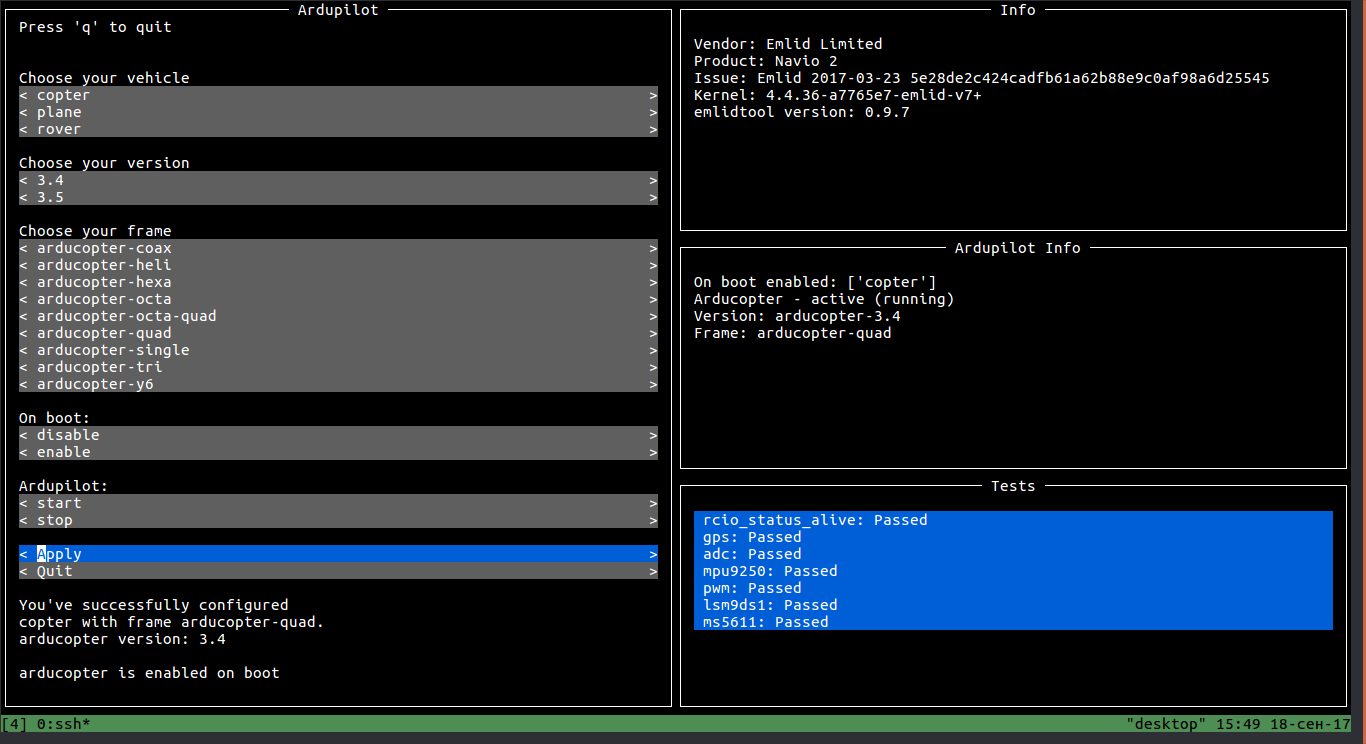
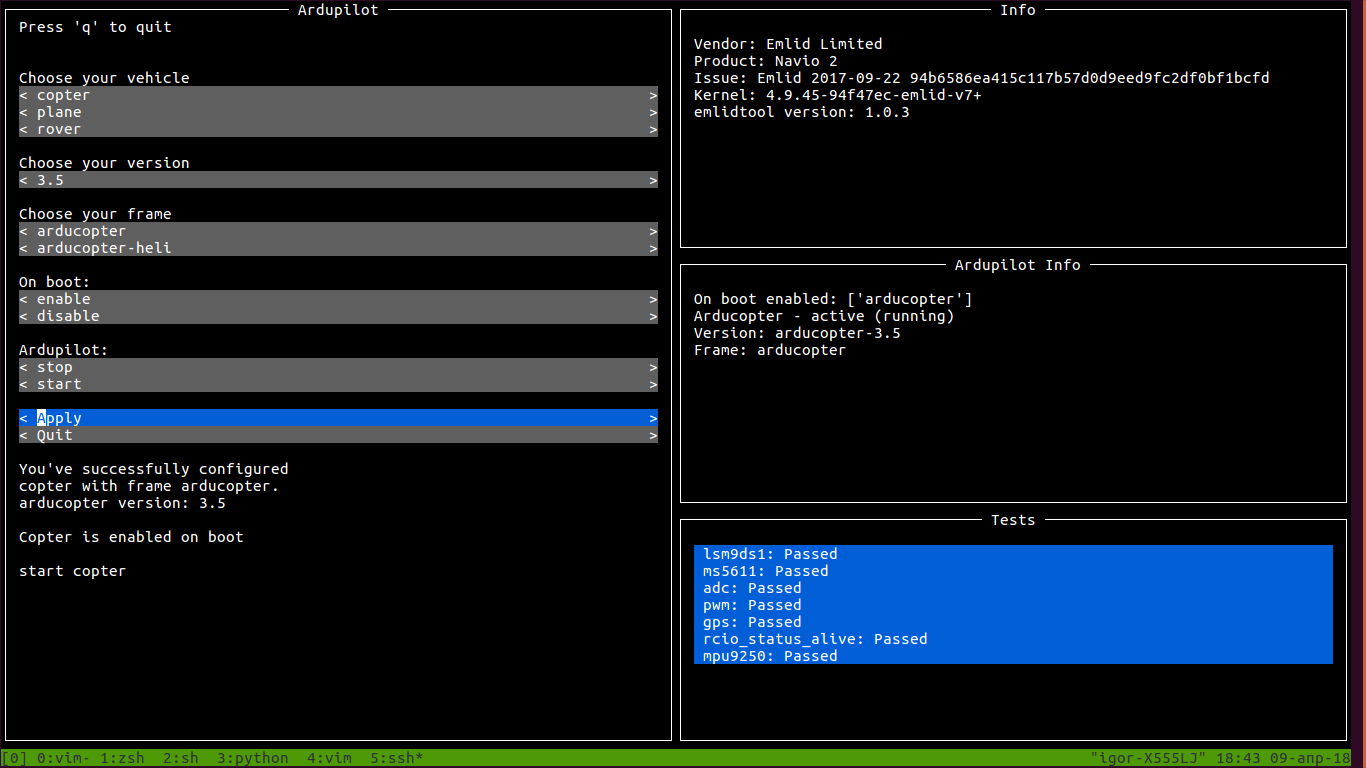
ardupilot: update emlidtool screen

Changed region(s): [[0.0, 0.0, 1.0, 1.0], [0.0, 0.8965, 0.2152, 0.9274]]

diff --git a/docs/common/ardupilot/installation-and-running.md b/docs/common/ardupilot/installation-and-running.md
@@ -75,7 +75,7 @@ Once the command is running, it will produce the output like this:
 At this point you should enter the right choices in the left menu corresponding to your vehicle and frame.
 Also, you need to decide whether you want to get ardupilot enabled on boot or not and start/stop it now.
   
-Let's assume that we have arducopter-quad, and we've decided to enable it on boot and start.
+Let's assume that we have arducopter, and we've decided to enable it on boot and start.
 
 After clicking the 'Apply' button ArduPilot will be configured and you'll see the changes in the ArdupilotInfo widget:
 
